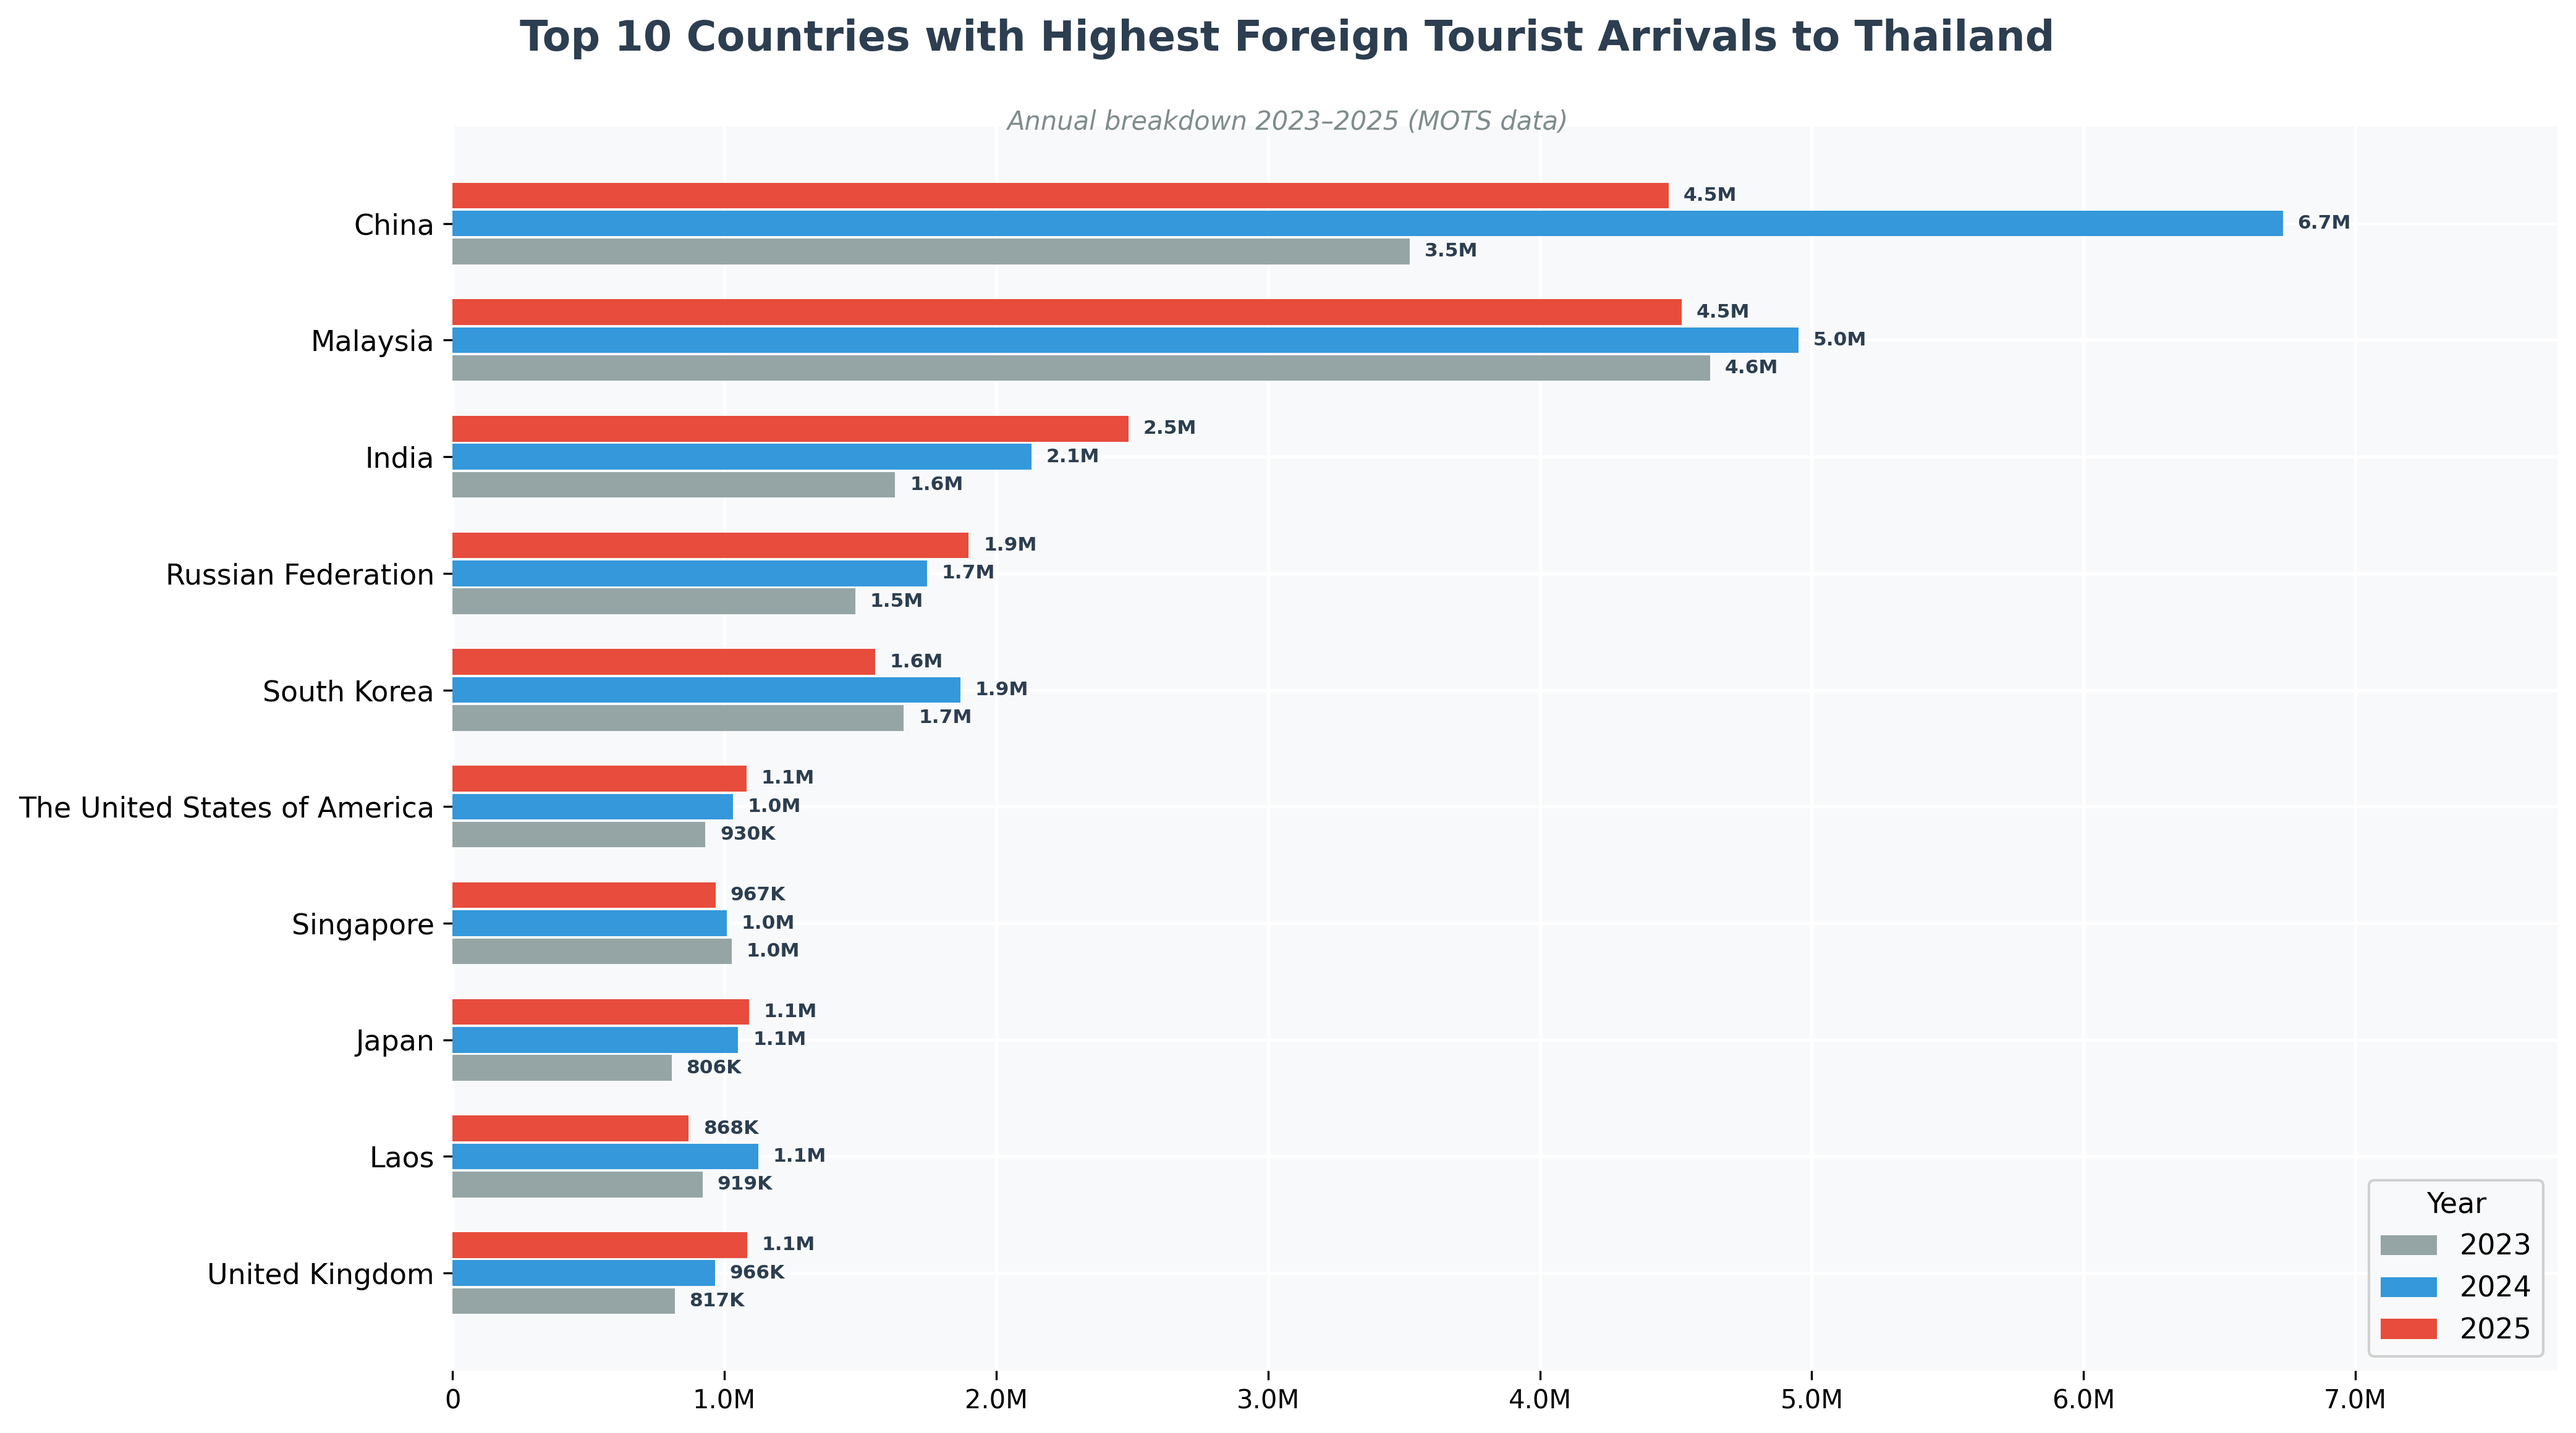
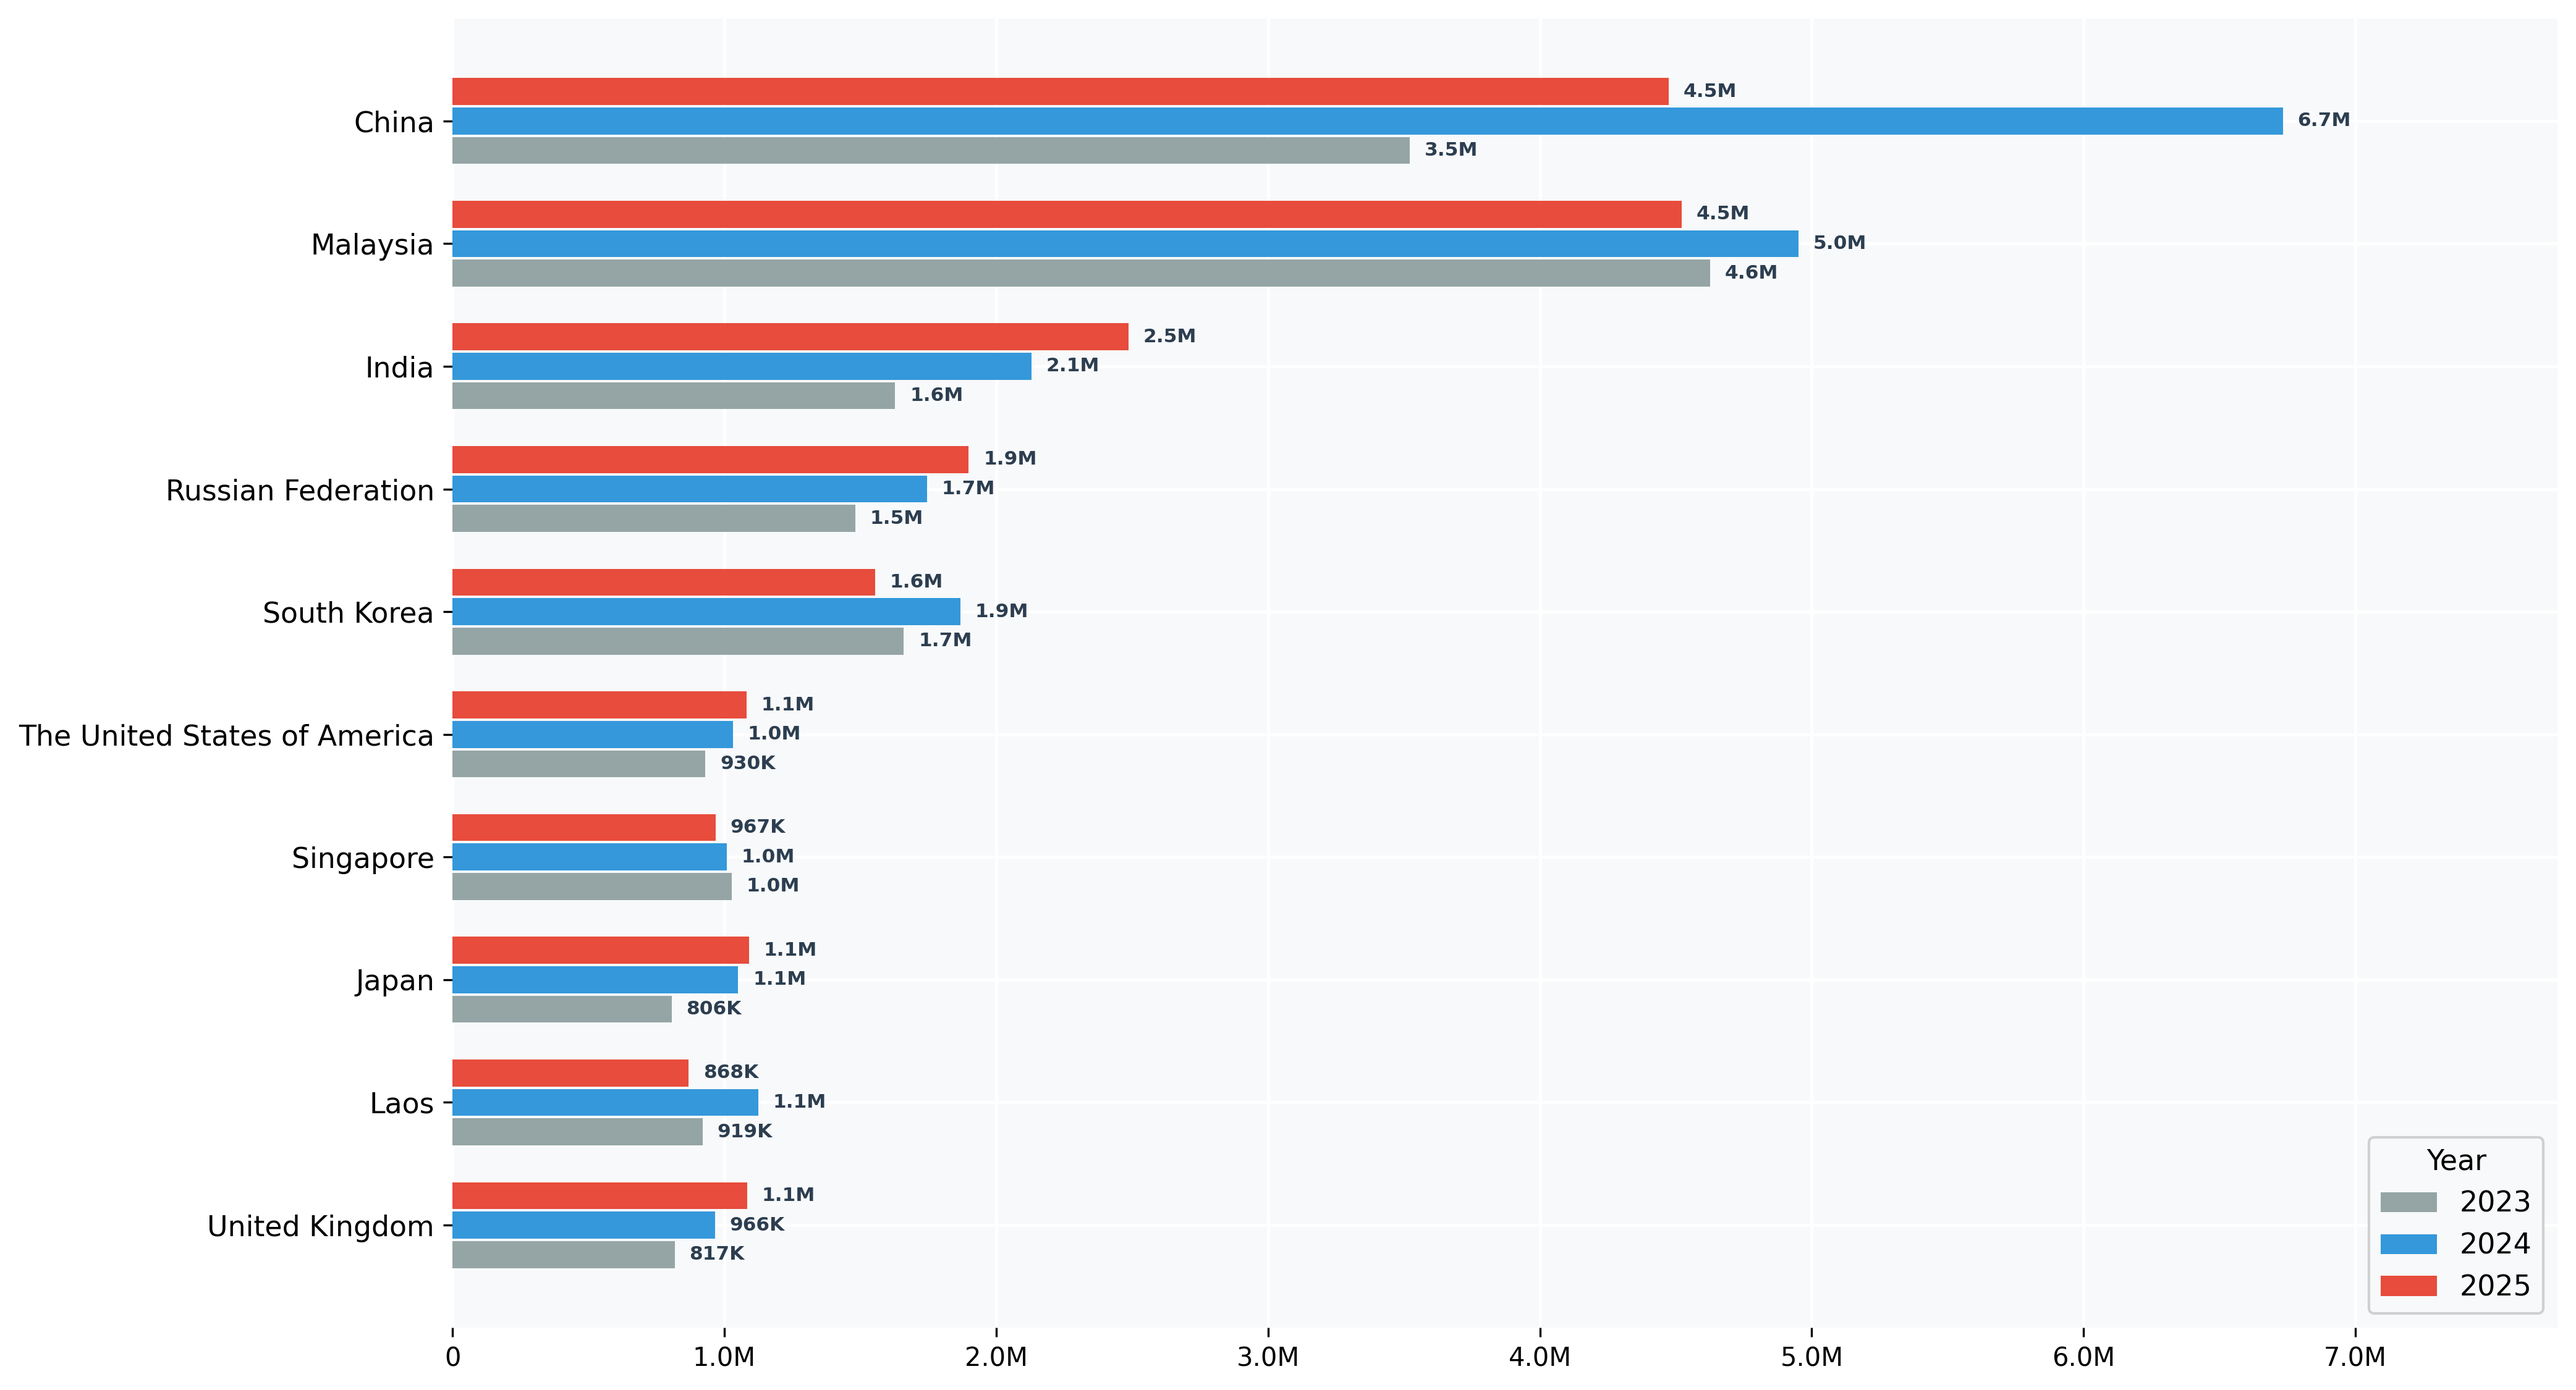
Remove graph titles from 09_A and 09_B visualizations

Changed region(s): [[0.0312, 0.0, 0.9045, 0.9333], [0.9357, 0.8089, 0.9981, 0.9644]]

diff --git a/visualizations/09_A.py b/visualizations/09_A.py
@@ -72,10 +72,7 @@ ax.invert_yaxis()
 ax.xaxis.set_major_formatter(mticker.FuncFormatter(lambda x, _: fmt(x)))
 ax.set_xlim(0, yearly.values.max() * 1.15)
 
-fig.suptitle('Top 10 Countries with Highest Foreign Tourist Arrivals to Thailand',
-             fontsize=16, fontweight='bold', color='#2C3E50', y=0.96)
-fig.text(0.5, 0.885, 'Annual breakdown 2023–2025 (MOTS data)',
-         ha='center', fontsize=10, color='#7F8C8D', style='italic')
+
 
 ax.legend(loc='lower right', fontsize=11, framealpha=0.9, title='Year', title_fontsize=11)
 

diff --git a/visualizations/09_B.py b/visualizations/09_B.py
@@ -85,10 +85,6 @@ sm = plt.cm.ScalarMappable(cmap='YlOrRd', norm=plt.Normalize(vmin=vmin, vmax=vma
 sm.set_array([])
 fig.colorbar(sm, cax=cbar_ax, label='Number of Visitors')
 
-fig.suptitle('Monthly Foreign Tourist Arrivals – Top 10 Countries',
-             fontsize=16, fontweight='bold', color='#2C3E50', y=0.98)
-fig.text(0.5, 0.955, 'Jan 2023 – Dec 2025 (MOTS data)',
-         ha='center', fontsize=10, color='#7F8C8D', style='italic')
 
 plt.subplots_adjust(top=0.93)
 os.makedirs('visualizations', exist_ok=True)
